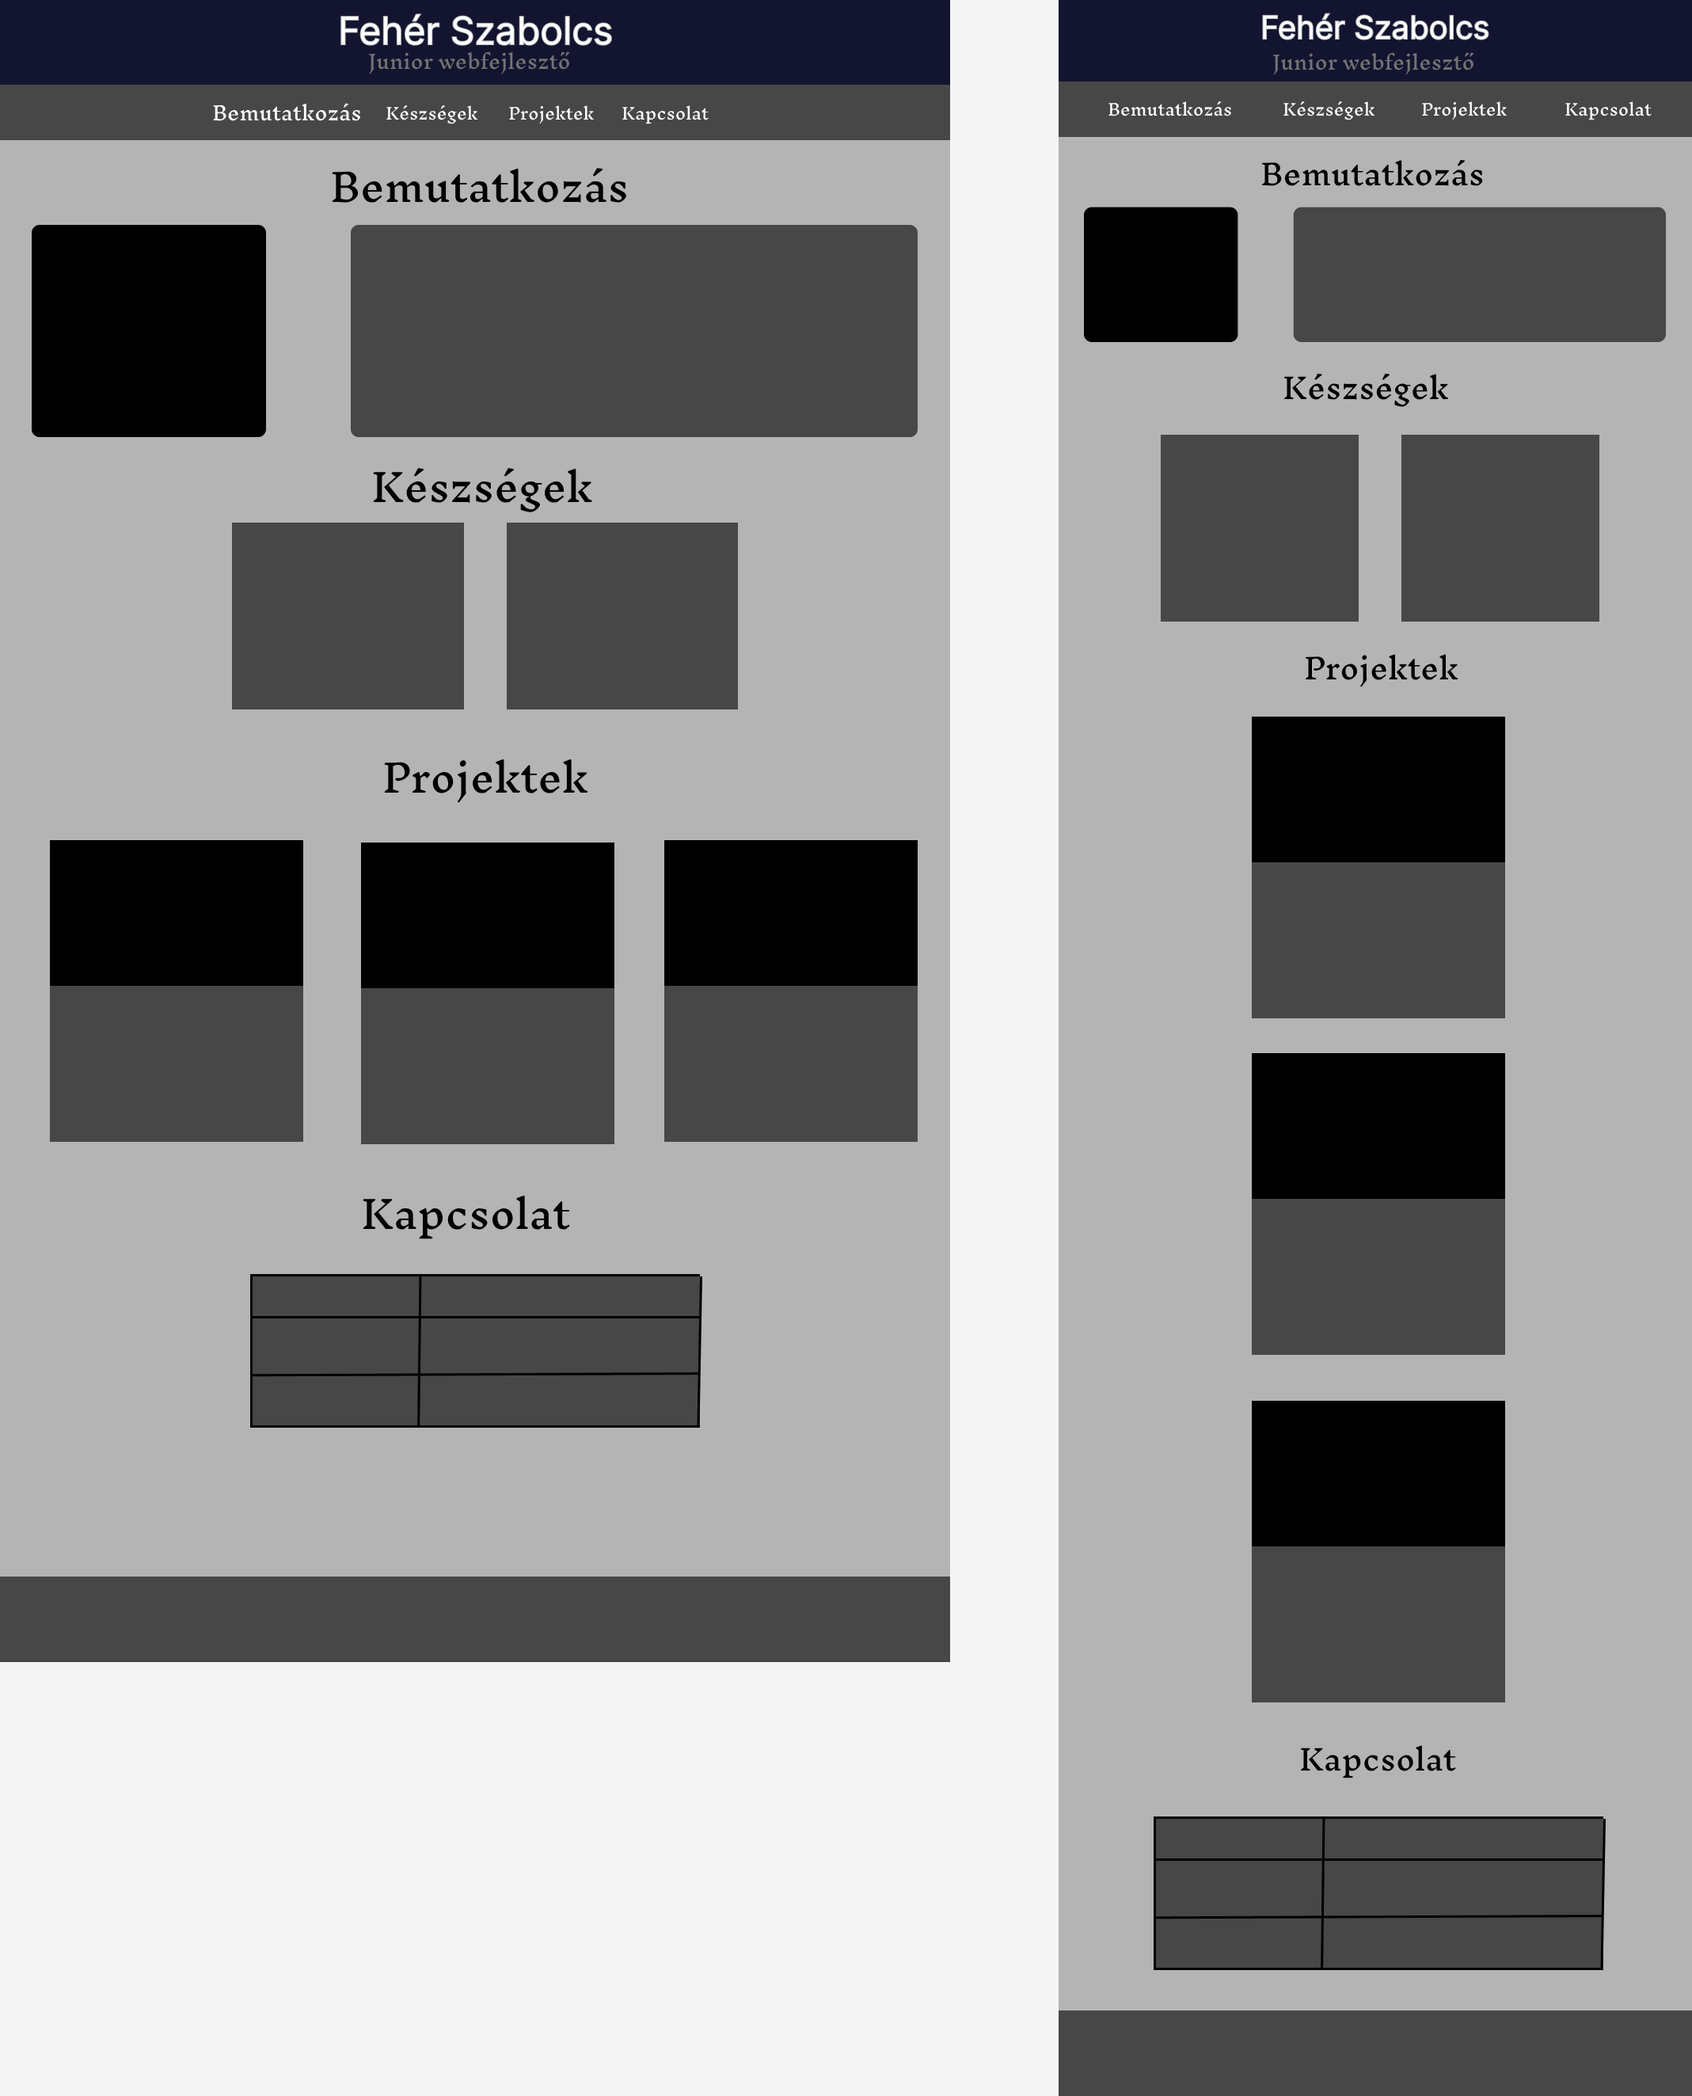
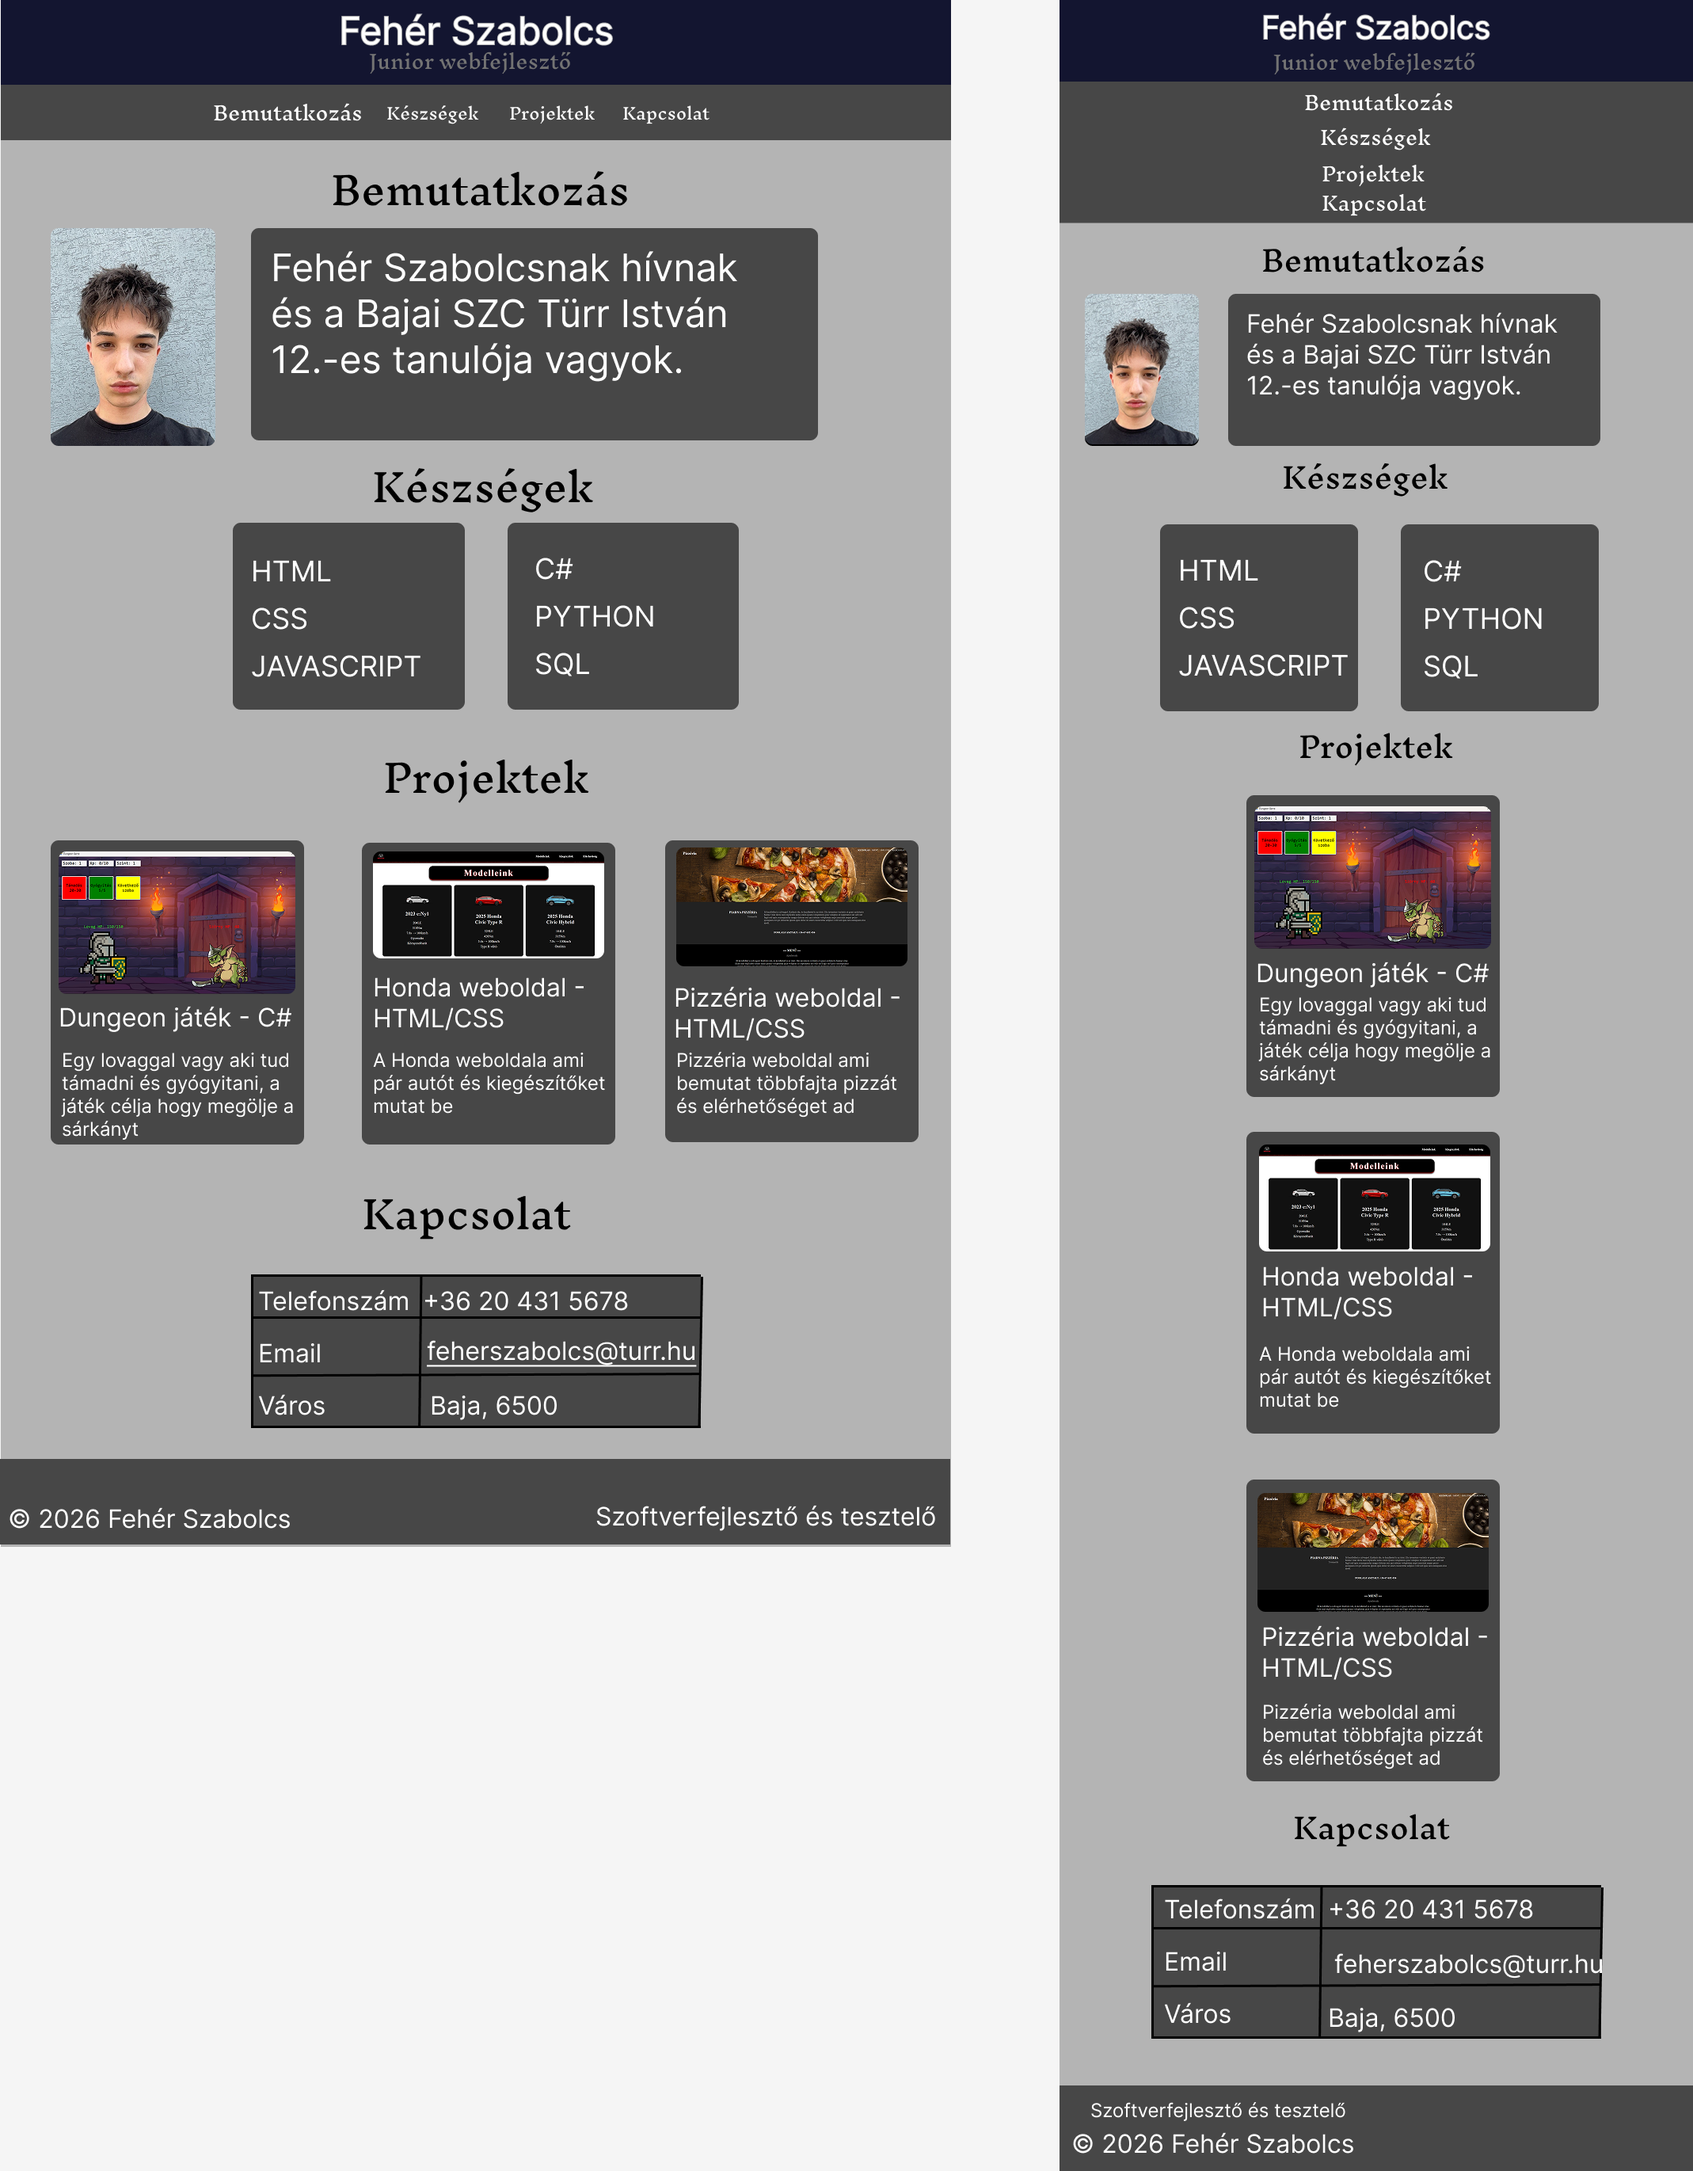
terv kijavítás

Changed region(s): [[0.0, 0.0, 0.5868, 0.8054], [0.6177, 0.0, 1.0, 0.9913], [0.0309, 0.3717, 0.1853, 0.5576]]

diff --git a/index.html b/index.html
@@ -22,10 +22,15 @@
         <section id="bemutat">
             <img src="img/portre.jpg" alt="">
             <div id="bemutatszoveg">
-                <p>Lorem ipsum dolor sit amet consectetur adipisicing elit. Dolorum maiores magni, voluptatem natus, nisi fuga consectetur reiciendis, qui quod fugit aliquid quaerat repudiandae nemo quae a nesciunt veniam architecto obcaecati?</p>
+                <p>Fehér Szabolcsnak hívnak és a Bajai SZC Türr István Technikum 12.-es diákja vagyok.</p>
             </div>
         </section>
-        <section></section>
+        <section id="keszseg">
+            <img src="" alt="">
+            <div>
+                
+            </div>
+        </section>
         <section></section>
     </main>
     <footer>

diff --git a/css/style.css b/css/style.css
@@ -60,14 +60,26 @@ main h2{
     letter-spacing: 5%;
 }
 
+#bemutat{
+    display: flex;
+}
+
 #bemutat img{
-    width: 15%;
-    border-radius: 10%;
+    border-radius: 50px;
+    width: 12%;
+    height: auto;
+    margin: 20px 30px 20px 50px;
+    box-shadow: 0px 0px 70px 15px black;
 }
 
 #bemutatszoveg{
     background-color: #35383b;
-    color: #dee2e7;
+    padding: 20px;
+    margin: 20px;
+    border-radius: 50px;
+    width: 70%;
+    height: auto;
+    color: white;
 }
 
 
